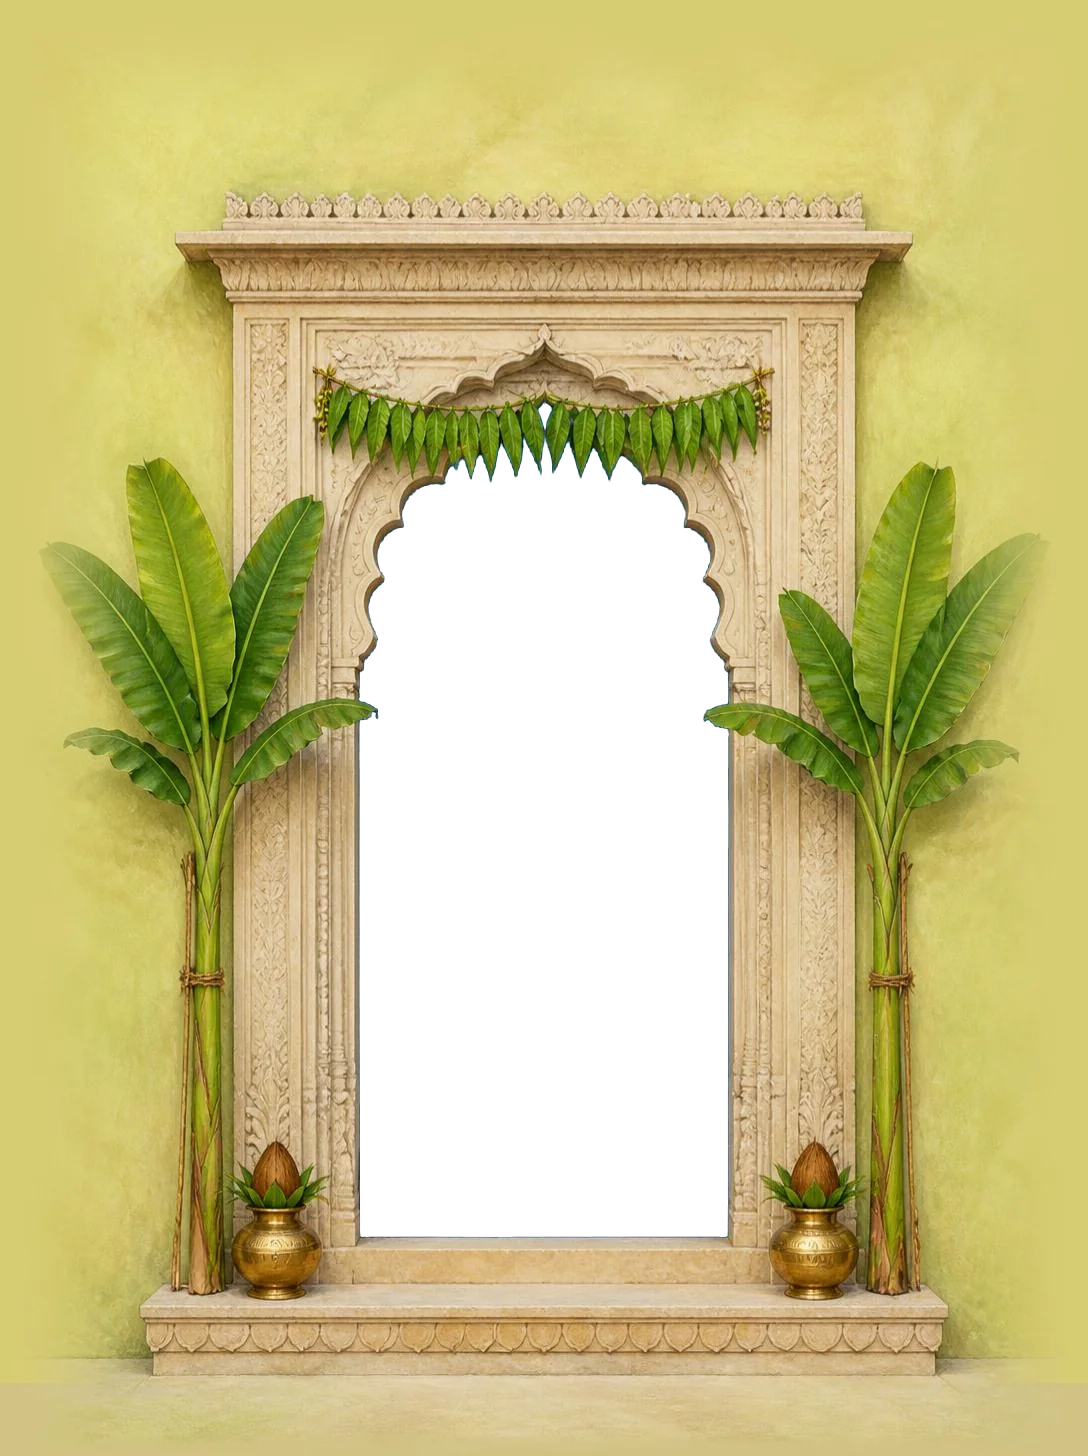
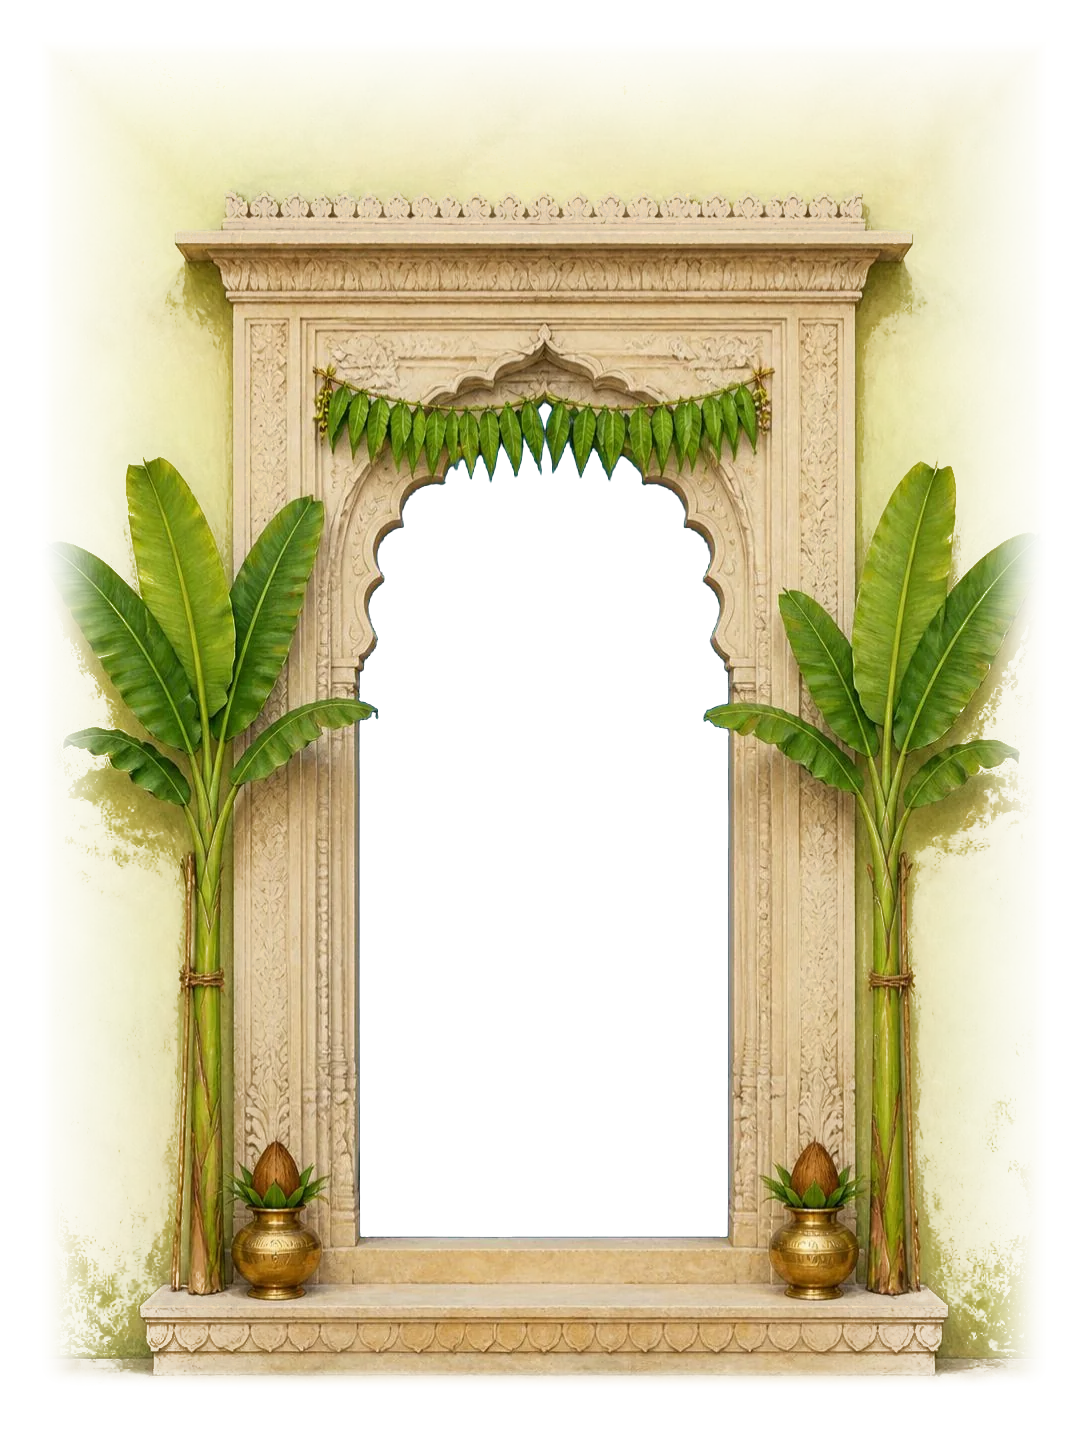
fix(toran): painted plaster walls and stone floors, doors set into the wall, cards on the floor not the flowers
Canva plaster texture tinted per door (light falloff, the door's own box cut out) replaces the flat wall
fills; a painted sandstone floor with petals and lit diyas runs under every door and the mandap. Door pictures
now fade their plain wall into the plaster and their foot into the floor; a pool of light spills from each
opening. Phones (and the mandap everywhere) tilt down to the floor as the plaques are read, so no card lies
over a toran or the marigold canopy. Desktop: door moved toward the card; floor runs under the card column.

diff --git a/src/themes/toran/main.js b/src/themes/toran/main.js
@@ -12,7 +12,7 @@ import { gsap } from 'gsap';
 import manifest from './slots.js';
 import { mountSuite } from '../_suite/suite.js';
 import { toran as kitToran, lamp, initNepali } from '../_suite/nepali.js';
-import { A, DOORS, DOOR_AR, MANDAP, LADI } from './doors.js';
+import { A, DOORS, DOOR_AR, MANDAP, LADI, FLOORS } from './doors.js';
 
 const ROMAN = ['I', 'II', 'III', 'IV', 'V', 'VI', 'VII'];
 const NE_NUM = ['१', '२', '३', '४', '५', '६', '७'];
@@ -59,15 +59,20 @@ function hangLadis(tie = false) {
 // ═════════ the tunnel ═════════
 function doorLayer(d, i, eager) {
   const src = `${A}${d.file}.webp`; const sm = `${A}${d.file}-sm.webp`;
-  return `<div class="to-door" data-i="${i}" style="--wall:${d.wall};--floor:${d.floor};--fy:${(d.floorY * 100).toFixed(2)}%">
-      <i class="to-wall to-wall--t"></i><i class="to-wall to-wall--b"></i>
-      <i class="to-wall to-wall--l"></i><i class="to-wall to-wall--lf"></i><i class="to-wall to-wall--r"></i><i class="to-wall to-wall--rf"></i>
-      <img class="to-door__art" ${eager ? '' : 'data-'}src="${src}" ${eager ? '' : 'data-'}srcset="${sm} 640w, ${src} 1088w" sizes="(min-width: 900px) 560px, 88vw" alt="" decoding="async"${i === 0 ? ' fetchpriority="high"' : ''} />
+  const fl = FLOORS[d.floorArt];
+  // the wall (painted plaster, tinted, darker away from the door) with the door's box cut out; the painted floor
+  // from the door's ground line; a warm pool of light spilling from the opening onto that floor
+  return `<div class="to-door" data-i="${i}" style="--wall:${d.wall};--fy:${(d.ground * 100).toFixed(2)}%;--floor:${fl.color};--fl:url('${A}${fl.file}.webp');--ox:${(((d.open[0] + d.open[2]) / 2) * 100).toFixed(2)}%;--ob:${(d.open[3] * 100).toFixed(2)}%;--ow:${((d.open[2] - d.open[0]) * 100).toFixed(2)}%">
+      <i class="to-wallbg"></i>
+      <i class="to-floor"></i>
+      <img class="to-door__art" ${eager ? '' : 'data-'}src="${src}" ${eager ? '' : 'data-'}srcset="${sm} 640w, ${src} 1088w" sizes="(min-width: 900px) 560px, 100vw" alt="" decoding="async"${i === 0 ? ' fetchpriority="high"' : ''} />
+      <i class="to-light"></i>
       <i class="to-shade"></i>
     </div>`;
 }
 function mandapLayer() {
-  return `<div class="to-door to-door--mandap" data-i="6">
+  return `<div class="to-door to-door--mandap" data-i="6" style="--floor:${MANDAP.floor}">
+      <i class="to-floor to-floor--mandap"></i>
       <picture>
         <source media="(orientation: landscape)" data-srcset="${A}${MANDAP.l.file}-sm.webp 1008w, ${A}${MANDAP.l.file}.webp 1680w" sizes="110vw" />
         <img class="to-door__art" data-src="${A}${MANDAP.p.file}.webp" data-srcset="${A}${MANDAP.p.file}-sm.webp 566w, ${A}${MANDAP.p.file}.webp 944w" sizes="(orientation: portrait) 125vw, 100vw" alt="" decoding="async" />
@@ -201,7 +206,7 @@ function tunnel(ctx) {
   const layers = [...stage.querySelectorAll('.to-door')].sort((a, b) => a.dataset.i - b.dataset.i);
   const shades = layers.map((l) => l.querySelector('.to-shade'));
   const floorFade = stage.querySelector('.to-floorfade');
-  const S = { vw: 0, vh: 0, wide: false, W: 0, hero: null, room: null, mandap: null, cam: 0, target: 0, keys: [[0, 0]], raf: 0, reduced: ctx.reduced, shown: -1 };
+  const S = { vw: 0, vh: 0, wide: false, W: 0, hero: null, room: null, mandap: null, cam: 0, target: 0, pan: 0, keys: [[0, 0]], holds: [], raf: 0, reduced: ctx.reduced, shown: -1 };
 
   function measure() {
     S.vw = window.innerWidth; S.vh = window.innerHeight;
@@ -212,20 +217,44 @@ function tunnel(ctx) {
     const roomH = wide ? Math.min(vh * 0.8, vw * 0.52 * DOOR_AR) : Math.min(vh * 0.66, vw * 1.04 * DOOR_AR);
     const heroH = wide ? vh * 0.58 : Math.min(vh * 0.5, vw * 0.8 * DOOR_AR);
     S.W = roomH / DOOR_AR; // the layer's own size; the hero frame is a scale of it
-    S.room = { w: S.W, x: wide ? vw * 0.3 : vw / 2, top: wide ? (vh - roomH) / 2 : vh * 0.03 };
+    S.room = { w: S.W, x: wide ? vw * 0.33 : vw / 2, top: wide ? (vh - roomH) / 2 : vh * 0.03 };
     S.hero = { w: heroH / DOOR_AR, x: vw / 2, top: vh - heroH - (wide ? vh * 0.02 : vh * 0.025) };
+    // how far each door's painted wall and floor reach (% of the door): just enough to fill the screen whenever that
+    // door is the one you see (asymmetric on wide screens, where the door stands left of centre)
+    const E = wide ? { xl: 140, xr: 290, yt: 80, yb: 230 } : { xl: 55, xr: 55, yt: 120, yb: 290 };
+    // the painted floor: under the door on a phone; on a wide screen it also runs on under the plaques' column
+    const tot = E.xl + 100 + E.xr; const fw = wide ? 3.8 / (tot / 100) : 2.6 / (tot / 100);
+    const cx = (E.xl + 50) / tot;
+    const fcx = wide ? (E.xl + 50 + 85) / tot : cx;
+    const v = { '--xl': E.xl, '--xr': E.xr, '--yt': E.yt, '--yb': E.yb,
+      '--mw': `${(10000 / tot).toFixed(3)}%`, '--mh': `${(10000 / (E.yt + 100)).toFixed(3)}%`, '--mx': `${((E.xl / (E.xl + E.xr)) * 100).toFixed(3)}%`,
+      '--cx': `${(cx * 100).toFixed(2)}%`, '--cy': `${(((E.yt + 50) / (E.yt + 100)) * 100).toFixed(2)}%`,
+      '--rx': `${(30000 / tot).toFixed(2)}%`, '--ry': `${(22000 / (E.yt + 100)).toFixed(2)}%`,
+      '--fw': `${(fw * 100).toFixed(2)}%`, '--fx': `${(fw >= 1 ? 50 : ((fcx - fw / 2) / (1 - fw)) * 100).toFixed(2)}%` };
+    const world = stage.querySelector('.to-world');
+    Object.entries(v).forEach(([k, x]) => world.style.setProperty(k, String(x)));
     // the hero text must end above the first door's lintel
     const topDoor = S.hero.top + heroH * 0.04;
     document.documentElement.style.setProperty('--to-hero-room', `${Math.max(180, topDoor).toFixed(0)}px`);
     layers.forEach((l, i) => {
-      if (i < 6) { l.style.width = `${S.W.toFixed(1)}px`; l.style.height = `${(S.W * DOOR_AR).toFixed(1)}px`; return; }
+      if (i < 6) {
+        l.style.width = `${S.W.toFixed(1)}px`; l.style.height = `${(S.W * DOOR_AR).toFixed(1)}px`;
+        // the wall's hole: the door's opening (a hair wider; the frame covers the edge)
+        const [o0, o1, o2, o3] = DOORS[i].open; const ow = (o2 - o0 + 0.016) * 100; const oh = (o3 - o1 + 0.016) * 100;
+        const hy = E.yt + 100;
+        l.style.setProperty('--mw', `${((ow / tot) * 100).toFixed(3)}%`);
+        l.style.setProperty('--mh', `${((oh / hy) * 100).toFixed(3)}%`);
+        l.style.setProperty('--mx', `${(((E.xl + (o0 - 0.008) * 100) / (tot - ow)) * 100).toFixed(3)}%`);
+        l.style.setProperty('--my', `${(((E.yt + (o1 - 0.008) * 100) / (hy - oh)) * 100).toFixed(3)}%`);
+        return;
+      }
       const M = vw / vh >= 1 ? MANDAP.l : MANDAP.p;
       // a little larger than the screen, so seen through the sixth door it still fills the whole opening
       const k = Math.max(vw / M.w, vh / M.h) * 1.12;
       const mw = M.w * k; const mh = M.h * k;
       l.style.width = `${mw.toFixed(1)}px`; l.style.height = `${mh.toFixed(1)}px`;
       const roomAy = S.room.top + ocy(5) * S.W * DOOR_AR;
-      S.mandap = { ax: S.room.x + (mw - vw) / 2, ay: roomAy + (mh - vh) / 2 };
+      S.mandap = { ax: S.room.x + (mw - vw) / 2, ay: roomAy + (mh - vh) / 2, bottom: (vh + mh) / 2, petals: mw * (944 / 1680) * 0.3 };
     });
   }
   const ocx = (i) => (DOORS[i].open[0] + DOORS[i].open[2]) / 2;
@@ -238,10 +267,11 @@ function tunnel(ctx) {
     const oy = lerp(ocy(k0), ocy(k1), t);
     const top = lerp(S.hero.top, S.room.top, f);
     const ax = lerp(S.hero.x, S.room.x, f);
-    const ay = top + oy * w * DOOR_AR;
+    const ay = top + oy * w * DOOR_AR - S.pan; // while plaques are read the view tilts down to the floor
     const unit = w / S.W; // the hero frame is a smaller copy of the room frame
     const zc = zAt(c);
-    const far = S.wide ? 6.4 : 5;
+    // how deep the drawn doors go: beyond that the house is dark (fewer layers on a phone)
+    const far = S.wide ? 4.2 : 3.6;
     floorFade.style.opacity = (f * (1 - smooth((c - 5) * 1.2))).toFixed(3); // the floor in shade, except at the sunlit mandap
     layers.forEach((l, i) => {
       const d = Z[i] - zc + 1;
@@ -255,22 +285,43 @@ function tunnel(ctx) {
     });
   }
 
-  /** scroll y -> camera: a move per room (its gap scrolls through), a hold while its plaques are read */
+  /**
+   * scroll y -> camera: a move per room (its gap scrolls through), then a hold while its plaques are read.
+   * Where the plaques would cross the door's flowers (every room on a phone; the mandap everywhere), the first plaque
+   * arrives just below the door's floor art and the view then tilts down with the reading (pan, 1:1 with the scroll,
+   * up to PMAX), so plaques only ever lie on the floor; the next move tilts back up.
+   */
   function buildKeys() {
     const y0 = window.scrollY;
     const abs = (el) => el.getBoundingClientRect().top + y0;
     const keys = [[0, 0]];
+    const holds = [];
     let last = 0; let prev = 0;
     document.querySelectorAll('.to-room').forEach((room, n) => {
       const k = Number(room.dataset.door);
       const g = room.querySelector('.to-gap');
       const plaqueTop = abs(g) + g.offsetHeight;
+      const tilt = k === 6 || !S.wide;
+      // where the first plaque's top sits when the door is reached (fraction of the screen)
+      const at = k === 6 ? (S.mandap.bottom + S.mandap.petals) / S.vh : S.wide ? 0.9 : (S.room.top + S.W * DOOR_AR * DOORS[k].ground) / S.vh + 0.19;
       const start = n === 0 ? 0 : Math.max(last, abs(room) - S.vh * 0.6);
-      const end = Math.max(start + 1, plaqueTop - S.vh * (S.wide ? 0.9 : 0.8));
+      const end = Math.max(start + 1, plaqueTop - S.vh * at);
       keys.push([start, prev], [end, k]);
+      if (holds.length) holds[holds.length - 1].next = [start, end];
+      holds.push({ end, max: tilt ? S.vh * 1.1 : 0, next: null });
       last = end; prev = k;
     });
-    S.keys = keys;
+    S.keys = keys; S.holds = holds;
+  }
+  function panAt(y) {
+    for (let i = S.holds.length - 1; i >= 0; i--) {
+      const h = S.holds[i];
+      if (y < h.end) continue;
+      if (!h.next || y < h.next[0]) return Math.min(y - h.end, h.max);
+      const P = Math.min(h.next[0] - h.end, h.max);
+      return P * (1 - smooth((y - h.next[0]) / (0.55 * (h.next[1] - h.next[0]) || 1))); // the view tilts back up first, then walks on
+    }
+    return 0;
   }
   function camAt(y) {
     const K = S.keys;
@@ -292,6 +343,7 @@ function tunnel(ctx) {
     S.raf = 0;
     const diff = S.target - S.cam;
     S.cam = Math.abs(diff) < 0.0008 ? S.target : S.cam + diff * 0.16;
+    S.pan = panAt(window.scrollY);
     render(S.cam);
     if (S.cam !== S.target) S.raf = requestAnimationFrame(tick);
   }
@@ -301,9 +353,9 @@ function tunnel(ctx) {
     if (S.reduced) {
       // stills: the door whose plaques are in view, crossfaded in
       const k = Math.round(t);
-      if (k === S.shown) return;
+      if (k === S.shown) { S.pan = panAt(window.scrollY); render(S.cam); return; }
       S.shown = k;
-      gsap.to(stage, { opacity: 0, duration: 0.18, ease: 'power1.in', overwrite: true, onComplete: () => { S.cam = k; render(k); gsap.to(stage, { opacity: 1, duration: 0.32, ease: 'power1.out' }); } });
+      gsap.to(stage, { opacity: 0, duration: 0.18, ease: 'power1.in', overwrite: true, onComplete: () => { S.cam = k; S.pan = panAt(window.scrollY); render(k); gsap.to(stage, { opacity: 1, duration: 0.32, ease: 'power1.out' }); } });
       return;
     }
     S.target = t;

diff --git a/src/themes/toran/toran.css b/src/themes/toran/toran.css
@@ -51,14 +51,35 @@ body.su.theme-toran {
 .to-door { position: absolute; left: 0; top: 0; transform-origin: 0 0; will-change: transform, opacity; backface-visibility: hidden; }
 .to-door__art, .to-door picture { position: absolute; inset: 0; display: block; width: 100%; height: 100%; max-width: none; }
 .to-door picture img { display: block; width: 100%; height: 100%; }
-.to-wall { position: absolute; display: block; background: var(--wall); }
-.to-wall--t { left: -300%; top: -300%; width: 700%; height: 300.4%; }
-.to-wall--b { left: -300%; top: 99.6%; width: 700%; height: 300%; background: linear-gradient(180deg, var(--floor) 0%, color-mix(in srgb, var(--floor) 72%, #1E0D06) 22%, color-mix(in srgb, var(--floor) 55%, #1E0D06) 60%); }
-.to-wall--l, .to-wall--r { top: 0; width: 300.4%; height: var(--fy); }
-.to-wall--lf, .to-wall--rf { top: var(--fy); width: 300.4%; height: calc(100% - var(--fy)); background: var(--floor); }
-.to-wall--l, .to-wall--lf { left: -300%; }
-.to-wall--r, .to-wall--rf { left: 99.6%; }
-.to-shade { position: absolute; left: -300%; top: -300%; width: 700%; height: 700%; background: #1E0D06; opacity: 0; pointer-events: none; }
+/* the wall: painted lime plaster (one neutral texture, tinted per door by soft-light), falling off into shade away
+   from the door; the door's own box is cut out of it (the picture carries the wall near the frame) */
+/* extents (set per screen in main.js, as % of the door): only as far as a door ever needs to fill the screen,
+   so each layer stays small enough for a phone's GPU */
+.to-wallbg { position: absolute; left: calc(var(--xl) * -1%); top: calc(var(--yt) * -1%); width: calc((var(--xl) + 100 + var(--xr)) * 1%); height: calc((var(--yt) + 100) * 1%); display: block;
+  background:
+    radial-gradient(var(--rx) var(--ry) at var(--cx) var(--cy), rgba(30, 12, 4, 0) 34%, rgba(30, 12, 4, 0.14) 60%, rgba(30, 12, 4, 0.4) 100%),
+    url('/themes/toran/art/plaster.webp') 0 0 / 900px 900px repeat,
+    var(--wall);
+  background-blend-mode: normal, soft-light, normal;
+  -webkit-mask: linear-gradient(#000 0 0) var(--mx) var(--my) / var(--mw) var(--mh) no-repeat, linear-gradient(#000 0 0);
+  -webkit-mask-composite: xor;
+  mask: linear-gradient(#000 0 0) var(--mx) var(--my) / var(--mw) var(--mh) no-repeat exclude, linear-gradient(#000 0 0); }
+/* the floor: a painted sandstone threshold with petals (and diyas or a small rangoli), on into plain stone, darker
+   toward the guest; a soft contact shadow where it meets the wall */
+.to-floor { position: absolute; left: calc(var(--xl) * -1%); top: var(--fy); width: calc((var(--xl) + 100 + var(--xr)) * 1%); height: calc(var(--yb) * 1%); display: block;
+  background:
+    linear-gradient(180deg, rgba(30, 12, 4, 0.34), rgba(30, 12, 4, 0) 2.5%),
+    linear-gradient(180deg, rgba(30, 12, 4, 0) 18%, rgba(30, 12, 4, 0.32) 60%, rgba(30, 12, 4, 0.48) 100%),
+    var(--fl) var(--fx) 0 / var(--fw) auto no-repeat,
+    var(--floor); }
+.to-light { position: absolute; left: var(--ox); top: var(--ob); width: calc(var(--ow) * 2.3); height: 26%; translate: -50% -42%; display: block; pointer-events: none;
+  background: radial-gradient(closest-side, rgba(255, 216, 150, 0.46), rgba(255, 196, 120, 0.2) 48%, rgba(255, 190, 110, 0) 100%); }
+.to-floor--mandap { left: 0; top: 99.5%; width: 100%; height: 110%; background:
+    linear-gradient(180deg, var(--floor), transparent 8%),
+    linear-gradient(180deg, rgba(30, 12, 4, 0) 30%, rgba(30, 12, 4, 0.34) 85%),
+    url('/themes/toran/art/floor-a.webp') 50% 0 / 100% auto no-repeat, #bd7f36; }
+.to-door--mandap picture::after { content: ''; position: absolute; left: 0; right: 0; bottom: 0; height: 14%; background: linear-gradient(180deg, transparent, var(--floor)); }
+.to-shade { position: absolute; left: calc(var(--xl) * -1%); top: calc(var(--yt) * -1%); width: calc((var(--xl) + 100 + var(--xr)) * 1%); height: calc((var(--yt) + var(--yb) + 100) * 1%); background: #1E0D06; opacity: 0; pointer-events: none; }
 .to-door--mandap .to-shade { inset: 0; width: auto; height: auto; left: 0; top: 0; }
 .to-floorfade { position: absolute; inset: 0; pointer-events: none; opacity: 0; background: linear-gradient(180deg, rgba(30, 12, 4, 0) 50%, rgba(30, 12, 4, 0.22) 68%, rgba(30, 12, 4, 0.55) 100%); }
 body.to-moved .su-cue { opacity: 0 !important; transition: opacity 240ms ease; pointer-events: none; }
@@ -89,6 +110,7 @@ body.to-moved .su-cue { opacity: 0 !important; transition: opacity 240ms ease; p
 /* ───────── rooms and plaques ───────── */
 .to-room { position: relative; padding: 0 16px; }
 .to-gap { height: 90svh; }
+.to-room--last .to-gap { height: 135svh; } /* the mandap: arrive, then its plaques come up from the courtyard floor */
 .to-plaque { position: relative; box-sizing: border-box; width: min(100%, 460px); margin: 0 auto 26svh; background: var(--to-plaque); color: var(--su-ink);
   border-radius: 3px; box-shadow: 0 36px 70px -36px rgba(24, 8, 2, 0.85), 0 2px 0 rgba(109, 31, 26, 0.1); }
 .to-plaque::before { content: ''; position: absolute; left: 0; right: 0; top: 0; height: 5px; background: var(--su-accent); border-radius: 3px 3px 0 0; }
@@ -192,7 +214,7 @@ html[data-lang='ne'] .to-close__en { display: none; }
 
 /* wide screens: the door stands left of centre, its plaques on the wall to the right */
 @media (min-width: 900px) {
-  .to-room { padding: 0 5vw 0 56vw; }
+  .to-room { padding: 0 5vw 0 54vw; }
   .to-plaque { margin-left: 0; width: min(100%, 480px); }
   .to-gap { height: 84vh; }
   .to-plaque__in { padding: 36px 34px 32px; }

diff --git a/src/themes/toran/doors.js b/src/themes/toran/doors.js
@@ -1,19 +1,22 @@
 // The seven doorways (Canva AI paintings made for Toran, public/themes/toran/art/). Each door picture is 1088x1456
 // with its opening keyed out (transparent) and its outer edges feathered into one flat wall colour and one floor
-// colour, so plain blocks of those colours can carry the wall on past the picture. `open` is the opening's box
+// colour (the theme lays painted plaster over it), and below its ground line the picture fades into the painted
+// floor. Before: flat blocks of those colours can carry the wall on past the picture. `open` is the opening's box
 // (fractions of the picture: x0, y0, x1, y1); the tunnel's axis runs through each opening's centre.
 export const A = '/themes/toran/art/';
 export const DOOR_AR = 1456 / 1088;
 
 export const DOORS = [
-  { file: 'door-1', wall: '#f7d697', floor: '#a48261', floorY: 0.9402, open: [0.3511, 0.3283, 0.6535, 0.8695], about: 'mango leaves, marigold and brass bells' },
-  { file: 'door-2', wall: '#d7cc73', floor: '#d2c385', floorY: 0.9499, open: [0.329, 0.2754, 0.67, 0.8496], about: 'banana stems and kalash with coconuts' },
-  { file: 'door-3', wall: '#e5a28a', floor: '#dd967a', floorY: 0.9801, open: [0.2794, 0.2081, 0.7224, 0.8984], about: 'rose strands with rajnigandha' },
-  { file: 'door-4', wall: '#bd301a', floor: '#9c6740', floorY: 0.965, open: [0.3382, 0.3187, 0.6608, 0.9045], about: 'sayapatri and makhamali garlands' },
-  { file: 'door-5', wall: '#b9c88f', floor: '#d1c4a9', floorY: 0.9251, open: [0.3244, 0.2713, 0.6811, 0.8915], about: 'gurans in bloom' },
-  { file: 'door-6', wall: '#bf7610', floor: '#8f5b23', floorY: 0.9602, open: [0.2849, 0.2507, 0.716, 0.864], about: 'a niche of lit diyos' },
+  { file: 'door-1', ground: 0.988, floorArt: 'a', wall: '#f7d697', floor: '#a48261', floorY: 0.9402, open: [0.3511, 0.3283, 0.6535, 0.8695], about: 'mango leaves, marigold and brass bells' },
+  { file: 'door-2', ground: 0.944, floorArt: 'b', wall: '#d7cc73', floor: '#d2c385', floorY: 0.9499, open: [0.329, 0.2754, 0.67, 0.8496], about: 'banana stems and kalash with coconuts' },
+  { file: 'door-3', ground: 1, floorArt: 'a', wall: '#e5a28a', floor: '#dd967a', floorY: 0.9801, open: [0.2794, 0.2081, 0.7224, 0.8984], about: 'rose strands with rajnigandha' },
+  { file: 'door-4', ground: 0.963, floorArt: 'b', wall: '#bd301a', floor: '#9c6740', floorY: 0.965, open: [0.3382, 0.3187, 0.6608, 0.9045], about: 'sayapatri and makhamali garlands' },
+  { file: 'door-5', ground: 0.938, floorArt: 'a', wall: '#b9c88f', floor: '#d1c4a9', floorY: 0.9251, open: [0.3244, 0.2713, 0.6811, 0.8915], about: 'gurans in bloom' },
+  { file: 'door-6', ground: 0.947, floorArt: 'b', wall: '#bf7610', floor: '#8f5b23', floorY: 0.9602, open: [0.2849, 0.2507, 0.716, 0.864], about: 'a niche of lit diyos' },
 ];
 /** the seventh: the mandap at the heart of the house, full bleed (portrait and landscape paintings) */
-export const MANDAP = { p: { file: 'mandap-p', w: 944, h: 1680 }, l: { file: 'mandap-l', w: 1680, h: 944 } };
+export const MANDAP = { floor: '#a5844e', p: { file: 'mandap-p', w: 944, h: 1680 }, l: { file: 'mandap-l', w: 1680, h: 944 } };
 /** the hanging marigold strings (ladis) of the opening curtain: [width, height] of each cut-out */
 export const LADI = [[112, 1619], [111, 1613], [107, 1622], [103, 1617], [104, 1613]];
+/** the painted sandstone floor before each door (petals and two lit diyas at the threshold), and its plain stone colour */
+export const FLOORS = { a: { file: 'floor-a', color: '#bd7f36' }, b: { file: 'floor-b', color: '#bd7f36' } };
